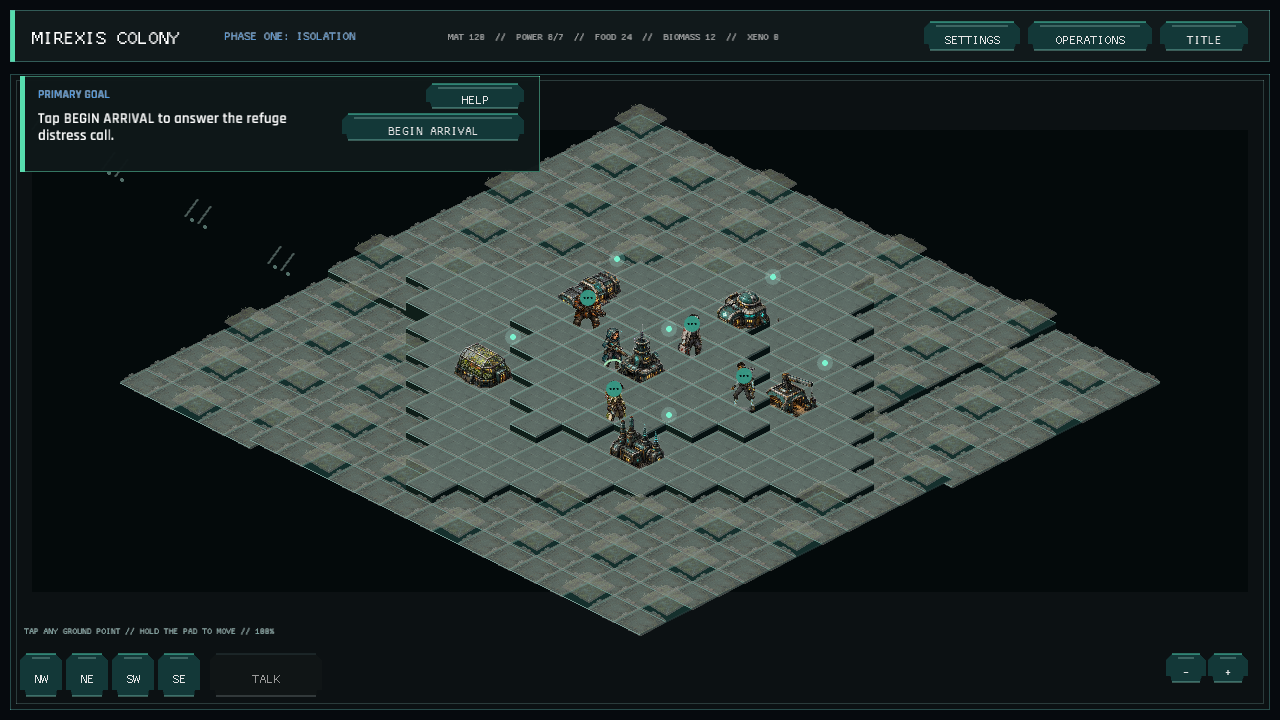
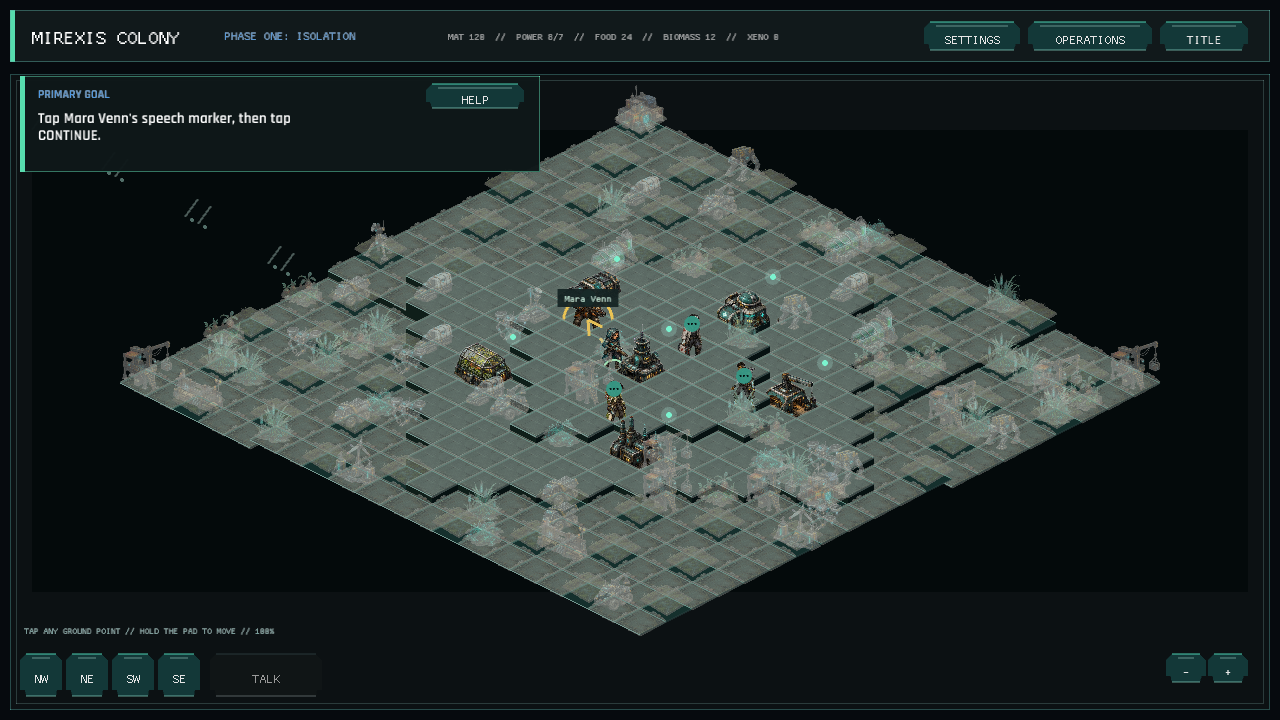
The city lays a gold line toward the voice that can save it (First-hour route guidance, §5.1)
The authored arrival named Mara Venn but left the player to infer the path across the settlement. This adds a non-blocking, guidance-aware route trace from the explorer to Mara's speech marker, keeps the trace limited to the coordinator step, and covers its stage and skip behavior with a regression test. The canonical colony capture, capture audit, documentation, and save/content metadata now describe and verify the 1.108.0 presentation change.

diff --git a/src/colony_map_ui.rs b/src/colony_map_ui.rs
@@ -127,6 +127,7 @@ pub(crate) fn draw(context: ColonyMapContext<'_>) -> bool {
             )
         });
     }
+    draw_first_hour_route(campaign, explorer, view);
     crate::first_hour_consequences_ui::draw(campaign, view);
     draw_ending_manifestation(campaign, assets, visuals, view);
     crate::ui::set_ui_clip(ui, None);
@@ -630,6 +631,68 @@ fn draw_service_paths(campaign: &CampaignState, view: ColonyView) {
             Color::new(0.34, 0.42, 0.36, 0.52),
         );
     }
+}
+
+fn first_hour_destination(campaign: &CampaignState) -> Option<Vec2> {
+    if !campaign.first_hour.guidance_enabled
+        || campaign.first_hour.stage != crate::first_hour::FirstHourStage::MeetCoordinator
+    {
+        return None;
+    }
+    crate::colony_exploration::npc_position(campaign, "mara_venn")
+}
+
+fn draw_first_hour_route(
+    campaign: &CampaignState,
+    explorer: &crate::colony_exploration::ColonyExplorer,
+    view: ColonyView,
+) {
+    let Some(destination) = first_hour_destination(campaign) else {
+        return;
+    };
+    let start = view.world_center(explorer.position());
+    let end = view.world_center(destination);
+    let direction = (end - start).normalize_or_zero();
+    if direction.length_squared() < 0.01 {
+        return;
+    }
+    let route_start = start + direction * 20.0;
+    let route_end = end - direction * 22.0;
+    let route_length = route_start.distance(route_end);
+    let dash = 11.0;
+    let gap = 8.0;
+    let mut distance = 0.0;
+    while distance < route_length {
+        let from = route_start + direction * distance;
+        let to = route_start + direction * (distance + dash).min(route_length);
+        draw_line(
+            from.x,
+            from.y,
+            to.x,
+            to.y,
+            3.0,
+            Color::new(0.95, 0.78, 0.30, 0.72),
+        );
+        distance += dash + gap;
+    }
+    let normal = vec2(-direction.y, direction.x);
+    let arrow_base = end - direction * 14.0;
+    draw_line(
+        end.x,
+        end.y,
+        arrow_base.x + normal.x * 8.0,
+        arrow_base.y + normal.y * 8.0,
+        3.0,
+        Color::new(0.95, 0.78, 0.30, 0.92),
+    );
+    draw_line(
+        end.x,
+        end.y,
+        arrow_base.x - normal.x * 8.0,
+        arrow_base.y - normal.y * 8.0,
+        3.0,
+        Color::new(0.95, 0.78, 0.30, 0.92),
+    );
 }
 
 fn draw_diamond_outline(view: ColonyView, center: Vec2, color: Color) {

diff --git a/src/persistence/tests/first_hour.rs b/src/persistence/tests/first_hour.rs
@@ -20,7 +20,7 @@ fn previous_save_without_first_hour_fields_gains_safe_guidance() {
 
     let migrated = migrate_save_value(Some("1.63.0".to_owned()), value, &data).unwrap();
 
-    assert_eq!(migrated.version, "1.107.0");
+    assert_eq!(migrated.version, "1.108.0");
     assert_eq!(migrated.campaign.first_hour, FirstHourProgress::default());
     assert_eq!(migrated.campaign.first_hour.stage, FirstHourStage::Arrival);
     assert_eq!(
@@ -46,7 +46,7 @@ fn previous_save_without_colony_story_fields_gains_an_empty_ledger() {
 
     let migrated = migrate_save_value(Some("1.65.0".to_owned()), value, &data).unwrap();
 
-    assert_eq!(migrated.version, "1.107.0");
+    assert_eq!(migrated.version, "1.108.0");
     assert_eq!(
         migrated.campaign.colony_story,
         crate::colony_story::ColonyStoryState::default()
@@ -72,7 +72,7 @@ fn version_164_keeps_exact_onboarding_progress_and_defaults_metrics() {
 
     let migrated = migrate_save_value(Some("1.64.0".to_owned()), value, &data).unwrap();
 
-    assert_eq!(migrated.version, "1.107.0");
+    assert_eq!(migrated.version, "1.108.0");
     assert_eq!(
         migrated.campaign.first_hour.stage,
         FirstHourStage::SecondReturn

diff --git a/src/colony_map_ui/tests.rs b/src/colony_map_ui/tests.rs
@@ -248,6 +248,23 @@ fn initial_camera_frames_the_centered_settlement_without_fitting_the_colony() {
 }
 
 #[test]
+fn first_hour_route_targets_mara_only_during_the_coordinator_step() {
+    let data = crate::data::GameData::load().unwrap();
+    let mut campaign = CampaignState::new(&data);
+    assert!(first_hour_destination(&campaign).is_none());
+
+    campaign.first_hour.advance_arrival();
+    assert!(first_hour_destination(&campaign).is_some());
+
+    campaign.first_hour.acknowledge_colonist("mara_venn");
+    assert!(first_hour_destination(&campaign).is_none());
+
+    campaign.first_hour.stage = crate::first_hour::FirstHourStage::MeetCoordinator;
+    campaign.first_hour.guidance_enabled = false;
+    assert!(first_hour_destination(&campaign).is_none());
+}
+
+#[test]
 fn visible_camera_controls_stay_below_the_interactive_colony_viewport() {
     let panel = panel_bounds(false);
     let viewport = viewport_bounds(panel);

diff --git a/src/game/capture_scenes.rs b/src/game/capture_scenes.rs
@@ -21,7 +21,7 @@ impl Game {
                 self.title_hover_preview = true;
             }
             "colony" => {
-                self.campaign.first_hour.stage = crate::first_hour::FirstHourStage::Arrival;
+                self.campaign.first_hour.stage = crate::first_hour::FirstHourStage::MeetCoordinator;
                 self.state = AppState::Colony;
             }
             "contact" => self.capture_contact(),

diff --git a/src/colony_exploration.rs b/src/colony_exploration.rs
@@ -61,6 +61,10 @@ impl ColonyExplorer {
         self.position.distance_squared(PLAYER_START) > 0.01
     }
 
+    pub(crate) fn position(&self) -> Vec2 {
+        self.position
+    }
+
     pub(crate) fn update(&mut self, dt: f32, colony: &ColonyState) {
         let manual = self.keyboard_direction + self.touch_direction;
         let (direction, remaining) = if manual.length_squared() > 0.01 {

diff --git a/docs/PHASE_1_ACCEPTANCE_MATRIX.md b/docs/PHASE_1_ACCEPTANCE_MATRIX.md
@@ -1,7 +1,7 @@
 # Phase 1 Acceptance Matrix
 
 Status: implementation evidence audited; observed-session gates pending
-Audit baseline: save/content 1.107.0, validated and committed with this matrix
+Audit baseline: save/content 1.108.0, validated and committed with this matrix
 
 This matrix maps every Phase 1 workstream and definition-of-done requirement to
 authoritative evidence. `VERIFIED` means code, tests, captures, or an operator-run path
@@ -31,10 +31,10 @@ developer are not substitutes for that evidence.
 
 | Required work | Evidence | Status |
 |---|---|---|
-| Opening situation, immediate goal, and destination | Arrival goal and Mara marker/landmark | VERIFIED |
+| Opening situation, immediate goal, and destination | Arrival goal, Mara marker/landmark, and first-hour route trace | VERIFIED |
 | Introduce only the next meaningful control | Stage-owned `primary_goal` and ordered tactical lesson | VERIFIED |
 | Exact visible-control or gesture language | Prompts consistently name Tap, Drag, CONTINUE, OPERATIONS, DEPLOY, ATTACK, END PHASE, HELP, and visible targets | VERIFIED |
-| Highlight relevant target without blocking inspection | Non-blocking goal banner, Mara marker, operation control, and tactical overlays | VERIFIED |
+| Highlight relevant target without blocking inspection | Non-blocking goal banner, Mara marker and route trace, operation control, and tactical overlays | VERIFIED |
 | Visible revisitable help | FIRST-HOUR FIELD GUIDE and tactical HELP | VERIFIED |
 | Restartable and skippable prompts without removing goals | `restart`, `guidance_enabled`, and first-hour tests | VERIFIED |
 | Persist progress and migrate saves with no tutorial fields | Save schema 1.65 and migration fixtures for 1.63 and 1.64 | VERIFIED |
@@ -53,7 +53,7 @@ the right understood context remains part of H01–H04 below.
 | Readable colonists and facilities without permanent labels | Speech markers, proximity dialogue, building art/state | VERIFIED |
 | Outcome-sensitive post-operation conversation | Ilya debrief line and first-return conversation state | VERIFIED |
 | Physical/visual consequence after each operation | Refuge and outer-route consequence drawing | VERIFIED |
-| Travel supports atmosphere without delay | Direct tap-to-walk, short Mara route, visible OPERATIONS shortcut | IMPLEMENTED / HUMAN PENDING |
+| Travel supports atmosphere without delay | Direct tap-to-walk, short Mara route, destination trace, visible OPERATIONS shortcut | IMPLEMENTED / HUMAN PENDING |
 | Timely choices foregrounded | Three dedicated preparations; advanced systems deferred | VERIFIED |
 
 Ten-second goal recognition, city attachment, and traversal friction require observation.

diff --git a/TECHNICAL_DESIGN.md b/TECHNICAL_DESIGN.md
@@ -2,7 +2,7 @@
 
 Status: systems-rich tech demo; playable-game refinement in progress
 Current production target: cohesive first-hour playable build
-Save/content version: 1.107.0
+Save/content version: 1.108.0
 Target platforms: Windows and browser/WASM
 Runtime: Rust 2021, Macroquad, macroquad-toolkit
 
@@ -136,6 +136,7 @@ Important transition payloads:
 | `grid_ui.rs` | Tactical viewport geometry and pointer hit-testing | Simulation rules |
 | `ui_widgets.rs` | Shared tactical buttons, status labels, and event summaries | State mutation |
 | `colony_ui.rs` | Colony rendering and strategic intents | Direct state mutation |
+| `colony_map_ui.rs` | 2.5D settlement projection, first-hour destination trace, and plot intents | Campaign mutation |
 | `roster_ui.rs` | Colonist selection, training, and equipment intents | Campaign mutation |
 | `equipment_ui.rs` | Tactical item button and targeting intent | Simulation mutation |
 | `formation.rs` | Safe deterministic wedge, line, and column colony entry placement | Tactical persistence |
@@ -875,6 +876,7 @@ Migration coverage:
 | 1.105.0 | Infirmary level-two Trauma Ward and Adaptation Clinic branches with recovery, scar, treatment, and defence effects |
 | 1.106.0 | Optional Research Annex construction and powered doctrine-cost reduction |
 | 1.107.0 | Optional Salvage Yard recovery choices with research insight and standard equipment prototypes |
+| 1.108.0 | First-hour coordinator destination trace and capture-state coverage |
 
 Every future schema bump must migrate the immediately previous version and add a
 fixture test. Validate saved content IDs before adding content removal or renaming.
@@ -926,8 +928,8 @@ The completion baseline is:
 
 - `cargo fmt -- --check`
 - `cargo clippy --all-targets --all-features -- -D warnings`
-- `cargo test` (360 Mirexis unit tests plus asset-registry and source-size gates)
-- deterministic eighty-two-scene capture with visual inspection
+- `cargo test` (361 Mirexis unit tests plus asset-registry and source-size gates)
+- deterministic 86-scene capture with visual inspection
 - `.\publish.ps1` with no parameters (Windows release, WebGL release, packaging,
   preview deployment, and catalog update)
 

diff --git a/docs/verification/FINAL_CAPTURE_INVENTORY.md b/docs/verification/FINAL_CAPTURE_INVENTORY.md
@@ -1,6 +1,6 @@
 # Mirexis Final Capture Inventory
 
-Generated: 2026-08-29
+Generated: 2026-08-31
 Capture root: `docs/verification`
 Manifest: `scripts/capture_ui.ps1`
 
@@ -20,7 +20,7 @@ Manifest: `scripts/capture_ui.ps1`
 - `ui_variant.png`: off-center tactical camera with selection, objective, hazard, unit, and contextual overlays intact.
 - `ui_movement_route.png` and `ui_valid_shot.png`: transformed route and target overlays remain aligned.
 - `ui_class_target.png`: transformed unit targeting and contextual card remain aligned.
-- `ui_colony.png`: centered settlement with a visible undeveloped 20 x 20 frontier.
+- `ui_colony.png`: centered settlement with a visible first-hour coordinator route and undeveloped 20 x 20 frontier.
 - `ui_construction.png`: placement blueprint and reserved resources remain visible at fixed building scale.
 
 ## Files
@@ -30,7 +30,7 @@ Manifest: `scripts/capture_ui.ps1`
[8 lines of base64/hex data omitted]

diff --git a/MIREXIS.md b/MIREXIS.md
@@ -912,6 +912,9 @@ The hub is a small 2.5D place the player can move through freely rather than a s
 map or a plot-snapped movement grid.
 Colonists appear as inhabitants with tappable, proximity-based conversations and useful
 contextual actions. Construction remains a deliberate mode inside that explorable space.
+During the authored arrival, a non-blocking gold route trace connects the player to Mara
+Venn's speech marker. It remains visible only while that destination is current, so the
+city teaches direction without turning every inhabitant into a permanent label.
 
 The player makes meaningful decisions about:
 

diff --git a/README.md b/README.md
@@ -17,7 +17,8 @@ and [docs/PHASE_1_PLAYTEST_LOG.md](docs/PHASE_1_PLAYTEST_LOG.md).
 
 ## What works now
 
-- A title-to-city-to-operation-to-debrief loop with native and browser saves.
+- A title-to-city-to-operation-to-debrief loop with native and browser saves, including a
+  visible first-hour route trace to the coordinator's speech marker.
 - A navigable 2.5D city with NPC interaction, construction, repairs, facilities,
   resources, research, recruitment, route-gated Waystation contacts, and faction pressure.
 - A powered Commons with one shared meal per operation, turning squad preparation into

diff --git a/docs/PHASE_1_HARDENING.md b/docs/PHASE_1_HARDENING.md
@@ -31,7 +31,7 @@ Status: automated and internal verification complete; external playtests pending
 
 ## Automated verification baseline
 
-- 360 Mirexis unit tests pass.
+- 361 Mirexis unit tests pass.
 - External asset-registry and Rust source-size gates pass.
 - `publish.ps1` passes without parameters for Windows and WebGL and deploys to preview.
 - The canonical set contains 86 audited 1280×720 scenes, including the first-hour
